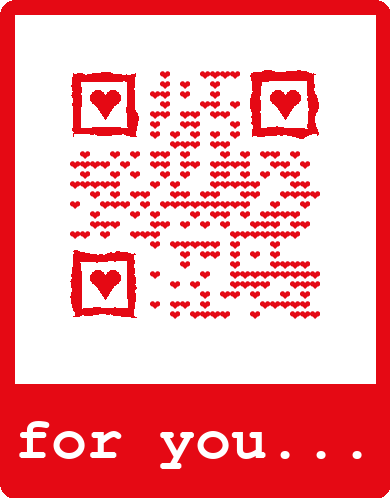
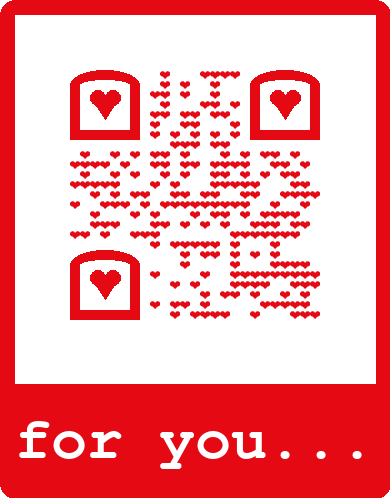
fix: remove 11 unscannable eye/eyeball styles and upgrade template aesthetics
- Ran automated pyzbar scan test on all 119 styles (42 dots, 41 eye frames, 36 eyeballs)
- Removed 8 unscannable eye frames: dynamic_swept_opposite, deckled, crystal, fluted_bezel, aerodynamic_slant, fibonacci_flower, cellular_automata, cyberpunk_glitch
- Removed 3 unscannable eyeballs: dynamic_swept, dynamic_swept_opposite, notched_ring
- Fixed 3 templates referencing removed styles (swapped to closest scannable alternatives)
- Upgraded all 113 templates with category-specific fonts, dots, and eye frames
- Updated font mapping to use Windows system fonts (trebucbd, georgiab, courbd, etc.)
- Reduced preview QR density (shorter URL + error correction Q)
- Reordered templates by category priority (Premium > Social > WiFi > Business...)
- Deleted stale preview thumbnails for removed styles
- Regenerated all 113 template preview images

diff --git a/frontend/src/data/options.ts b/frontend/src/data/options.ts
@@ -13,21 +13,19 @@ export const EYE_FRAME_STYLES = [
   // Normal
   "square", "rounded", "octagon",
   // Intermediate
-  "leaf", "perfect_leaf_tl", "perfect_leaf_tr", "dynamic_swept", "dynamic_swept_opposite", "shield", "droplet_tl", "droplet_tr", "droplet_bl", "droplet_br",
+  "leaf", "perfect_leaf_tl", "perfect_leaf_tr", "dynamic_swept", "shield", "droplet_tl", "droplet_tr", "droplet_bl", "droplet_br",
   // Advanced
-  "deckled", "crystal",
   "leaf_opposite", "shield_opposite", 
   "left_rounded", "right_rounded", "solid_square_circle_cut", "crystal_frame", 
   "arch_frame", "cross_notch_frame", "pointed_top_frame", "aztec_step_frame", 
-  "camera_lens", "squircle", "notched_ring", "circuit_trace", "fluted_bezel", "cushion_cut", "hex_nut", "split_crosshairs", "aerodynamic_slant",
-  "geometric_deco", "superellipse_square", "flower_of_life", "fibonacci_flower", "perspective_warped", "cellular_automata",
-  "cyberpunk_glitch"
+  "camera_lens", "squircle", "notched_ring", "circuit_trace", "cushion_cut", "hex_nut", "split_crosshairs",
+  "geometric_deco", "superellipse_square", "flower_of_life", "perspective_warped"
 ];
 export const EYEBALL_STYLES = [
   // Normal
   "square", "rounded", "circle", "diamond", "hexagon", "octagon",
   // Intermediate
-  "leaf", "perfect_leaf", "dynamic_swept", "dynamic_swept_opposite", "shield", "gear", "plus", "rhombus", "squircle", "notched_ring", "circuit_trace", "fluted_bezel", "cushion_cut", "hex_nut", "split_crosshairs", "aerodynamic_slant",
+  "leaf", "perfect_leaf", "shield", "gear", "plus", "rhombus", "squircle", "circuit_trace", "fluted_bezel", "cushion_cut", "hex_nut", "split_crosshairs", "aerodynamic_slant",
   // Advanced
   "deckled",
   "leaf_opposite", "shield_opposite", 

diff --git a/frontend/src/data/templates.ts b/frontend/src/data/templates.ts
@@ -610,7 +610,7 @@ export const PRESET_TEMPLATES: Template[] = [
     "description": "Romantic red card with double interlocking hearts header",
     "settings": {
       "dots_style": "heart",
-      "eye_frame_style": "deckled",
+      "eye_frame_style": "arch_frame",
       "eyeball_style": "heart",
       "dots_color": "#e50914",
       "bg_color": "#ffffff",
@@ -1099,7 +1099,7 @@ export const PRESET_TEMPLATES: Template[] = [
     "description": "Clean bold header card with 'SCAN TO CONNECT' call-to-action.",
     "settings": {
       "dots_style": "crossstitch",
-      "eye_frame_style": "cyberpunk_glitch",
+      "eye_frame_style": "circuit_trace",
       "eyeball_style": "square",
       "dots_color": "#212121",
       "dots_color_end": "#212121",
@@ -2411,7 +2411,7 @@ export const PRESET_TEMPLATES: Template[] = [
     "description": "A rustic wooden sign suspended by metal chains.",
     "settings": {
       "dots_style": "vertical_slash",
-      "eye_frame_style": "aerodynamic_slant",
+      "eye_frame_style": "squircle",
       "eyeball_style": "square",
       "dots_color": "#3E2723",
       "bg_color": "#ffffff",
